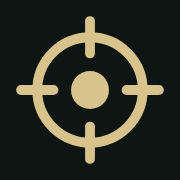
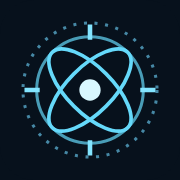
NEXIA look on today's pages: navy/cyan colours, side menu, phone bottom bar
Ports the owner-approved NEXIA presentation from ChatGPT's PR #105 (ARN-139) onto the current pages instead
of merging that older snapshot: one stylesheet (dashboard/nexia.css) and one shared menu (Workspace, Command,
Orchestrator, Forge) on all four pages. A left rail on wide screens, a top bar on tablets, a four-button bottom
bar on phones. Chat stays the main page; every control from today is unchanged (files, answer modes, smart
routing, voice, scheduled agents, tools catalog, stop switch). Home-screen name and icon are now NEXIA.
Also fixes two layout bugs: the chat page zoomed out on small phones (320px) and the Orchestrator board ran
off the right edge next to the rail.

Claude-Session: https://claude.ai/code/session_01Y4GeXfvxSLXcDYy1FoL1cY

diff --git a/dashboard/nexia.css b/dashboard/nexia.css
@@ -1,0 +1,104 @@
+/* NEXIA look (ARN-139, palette and phone bar from ChatGPT's PR #105, ported onto today's pages).
+   Presentation only: colours, a shared menu (a left rail on wide screens, a top bar on tablets, a bottom bar on
+   phones). No page behaviour changes. Loaded last on every page, so it wins over ops-theme.css and the page styles. */
+:root:root:root:root{
+  --bg:#07111c; --bg-2:#0b1929; --panel:#102033; --panel-2:#0b1828; --line:#29445b;
+  --fg:#e8f4ff; --muted:#a8bccc; --accent:#83e5ff; --accent-fg:#08202d; --accent-soft:#18394c;
+  --sand:#83e5ff; --olive:#18394c; --grid:rgba(99,194,234,.045);
+  --good:#62deb3; --good-soft:#13392e; --warn:#f3c873; --warn-soft:#382c19;
+  --bad:#ff827e; --bad-soft:#3d2028; --amber:#f3c873; --signal:#b42d37; --idle:#95a7b8;
+  --display:system-ui,-apple-system,"Segoe UI",sans-serif;
+  --body:system-ui,-apple-system,"Segoe UI",sans-serif;
+  --nx-rail:208px; --nx-phone-nav:calc(64px + env(safe-area-inset-bottom,0px));
+  color-scheme:dark;
+}
+html{background:var(--bg)}
+body{margin:0;color:var(--fg);background-color:var(--bg);
+  background-image:radial-gradient(ellipse at 48% 0%,#18374d 0%,transparent 52%),
+    linear-gradient(var(--grid) 1px,transparent 1px),linear-gradient(90deg,var(--grid) 1px,transparent 1px);
+  background-size:auto,32px 32px,32px 32px;background-attachment:fixed}
+h1,h2,h3{font-family:var(--display);font-weight:650;letter-spacing:.01em}
+.panel,.ops-beacon,.hud{border-radius:12px}
+.panel{background:linear-gradient(155deg,#12283c,var(--panel-2));box-shadow:0 12px 32px #0002}
+.panel::before,.panel::after{display:none}
+.btn,.seg button,.sel,.chip,textarea,input{border-radius:8px}
+.btn{font-family:var(--body);text-transform:none;letter-spacing:.01em}
+.btn.ghost{color:var(--accent);border-color:var(--line)}
+:focus-visible{outline:2px solid var(--accent);outline-offset:3px}
+.stopbtn{border-radius:8px;font-family:var(--body);font-weight:750;letter-spacing:.025em;
+  background:#a92d38;color:#fff;border:2px solid #ffaca8;box-shadow:0 0 0 2px #f36c7166}
+.resumebtn{border-radius:8px}
+.welcome-h,.side-brand{font-family:var(--display);font-weight:650;letter-spacing:.02em}
+.side-brand{text-transform:none}
+
+/* The shared menu. */
+.nexia-nav{box-sizing:border-box;display:flex;align-items:center;gap:16px;padding:6px 16px;background:#081522;
+  border-bottom:1px solid var(--line);position:relative;z-index:51;min-width:0}
+.nexia-brand{display:flex;align-items:center;gap:10px;color:var(--fg);text-decoration:none;min-height:44px;flex:none}
+.nexia-brand strong{display:block;color:var(--accent);font:750 18px/1 var(--body);letter-spacing:.24em}
+.nexia-brand small{display:block;font-size:11px;color:var(--muted);margin-top:4px}
+.nexia-emblem{width:32px;height:32px;flex:none;filter:drop-shadow(0 0 9px #55c9ff55)}
+.nexia-links{display:flex;gap:6px;min-width:0}
+.nexia-links a{display:flex;align-items:center;gap:8px;min-height:44px;padding:6px 10px;border:1px solid transparent;border-radius:8px;
+  text-decoration:none;color:var(--muted);font-weight:600;font-size:13px}
+.nexia-links a:hover{background:#122a3c;color:var(--fg)}
+.nexia-links a[aria-current="page"]{color:var(--accent);background:#143247;border-color:#37637e}
+.nexia-links svg{width:18px;height:18px;flex:none;stroke:currentColor;fill:none;stroke-width:1.6;stroke-linecap:round;stroke-linejoin:round}
+.nexia-links a > span{display:grid;gap:2px;line-height:1.2}
+.nexia-links a small{font-size:10px;font-weight:400;color:var(--muted)}
+
+/* Chat page: the menu takes its own space, the conversation fills the rest (question box stays at the bottom). */
+body.nexia-chat{display:flex;flex-direction:column;height:100vh;height:100dvh;overflow:hidden}
+body.nexia-chat .wrap.app{flex:1 1 0;height:auto;min-height:0}
+body.nexia-chat .convo{height:100%}
+
+/* Wide screens: the menu is a rail on the left. */
+@media (min-width:1350px){
+  body:has(> .nexia-nav){padding-left:var(--nx-rail)}
+  .nexia-nav{position:fixed;inset:0 auto 0 0;width:var(--nx-rail);flex-direction:column;align-items:stretch;gap:18px;
+    border-bottom:0;border-right:1px solid var(--line);padding:22px 12px;overflow:auto}
+  .nexia-brand{padding:0 6px}
+  .nexia-emblem{width:38px;height:38px}
+  .nexia-links{flex-direction:column}
+  .nexia-links a{font-size:14px}
+  body.nexia-chat{box-sizing:border-box}
+}
+/* Tablets: a top bar; captions hidden to save room. */
+@media (min-width:701px) and (max-width:1349px){
+  .nexia-brand small,.nexia-links a small{display:none}
+}
+/* Phones: a bottom bar with four big buttons, like an app. */
+@media (max-width:700px){
+  body:has(> .nexia-nav){padding-bottom:var(--nx-phone-nav);background-attachment:scroll}
+  body.nexia-chat{box-sizing:border-box}
+  .nexia-nav{position:fixed;inset:auto 0 0 0;min-height:var(--nx-phone-nav);z-index:65;
+    padding:4px max(6px,env(safe-area-inset-right,0px)) calc(4px + env(safe-area-inset-bottom,0px)) max(6px,env(safe-area-inset-left,0px));
+    border-bottom:0;border-top:1px solid var(--line);box-shadow:0 -8px 24px #0004}
+  .nexia-brand{display:none}
+  .nexia-links{flex:1;display:grid;grid-template-columns:repeat(4,minmax(0,1fr));gap:4px}
+  .nexia-links a{min-height:56px;flex-direction:column;justify-content:center;gap:3px;padding:4px 2px;text-align:center}
+  .nexia-links svg{width:22px;height:22px}
+  .nexia-links a > span{font-size:0;gap:0}
+  .nexia-links a small{font-size:11px;font-weight:600;color:inherit}
+  .nexia-links a[aria-current="page"]{box-shadow:inset 0 2px 0 var(--accent)}
+  /* Chat: the question box sits just above the bottom bar, which already leaves room for the home indicator. */
+  body.nexia-chat .dock{padding-bottom:8px}
+  body.nexia-chat .side{bottom:var(--nx-phone-nav)}
+  body.nexia-chat .scrim{bottom:var(--nx-phone-nav)}
+  body.nexia-chat .more{max-height:calc(100dvh - var(--nx-phone-nav) - 80px);overflow:auto}
+}
+@media (prefers-reduced-motion:reduce){.nexia-emblem *{animation:none!important;transition:none!important}}
+/* Small phones (iPhone SE and similar): the answer-mode toggle gets its own line, so the question box fits the
+   screen instead of the whole page zooming out. */
+@media (max-width:380px){
+  .boxrow{flex-wrap:wrap;margin-left:0}
+  .modes{order:-1;flex:1 0 100%;display:grid;grid-template-columns:repeat(3,minmax(0,1fr))}
+  .modes span{justify-content:center;min-height:40px;width:100%}
+}
+/* Orchestrator page: the left rail takes 208px, so its 3-column board folds to one column a little sooner
+   (the page's own rule does this below 1280px of screen; with the rail that is below 1488px). */
+@media (min-width:1350px) and (max-width:1488px){
+  .page > .grid{grid-template-columns:minmax(0,1fr)}
+  .page > .grid > .rail{grid-template-columns:repeat(auto-fit,minmax(260px,1fr))}
+  .page > .grid > .center{order:-1}
+}

diff --git a/dashboard/command.html b/dashboard/command.html
@@ -1,7 +1,7 @@
 <!doctype html>
 <meta charset="utf-8">
 <meta name="viewport" content="width=device-width, initial-scale=1">
-<title>AI Command Tree</title>
+<title>NEXIA · Orchestrator</title>
 <link rel="preconnect" href="https://fonts.googleapis.com">
 <link rel="preconnect" href="https://fonts.gstatic.com" crossorigin>
 <link rel="stylesheet" href="https://fonts.googleapis.com/css2?family=Orbitron:wght@600;800&family=Exo+2:wght@400;500;600;700&family=IBM+Plex+Mono:wght@400;500&display=swap">
@@ -180,6 +180,8 @@ button,select{font:inherit;color:inherit}
 @media (max-width:420px){.nbody{grid-template-columns:minmax(0,1fr)}.gs,.donut{grid-template-columns:90px 1fr}.ringbox{width:90px}}
 @media (prefers-reduced-motion:reduce){*{transition:none!important;animation:none!important}}
 </style>
+<link rel="stylesheet" href="nexia.css">
+<nav class="nexia-nav" aria-label="Main menu"><a class="nexia-brand" href="/workspace.html" aria-label="NEXIA home"><svg class="nexia-emblem" aria-hidden="true" viewBox="0 0 96 96" fill="none"><circle cx="48" cy="48" r="44" stroke="#4688a5" stroke-dasharray="2 5"/><circle cx="48" cy="48" r="35" stroke="#65d9fa" stroke-opacity=".7"/><ellipse cx="48" cy="48" rx="15" ry="35" transform="rotate(45 48 48)" stroke="#65d9fa"/><ellipse cx="48" cy="48" rx="15" ry="35" transform="rotate(-45 48 48)" stroke="#65d9fa"/><circle cx="48" cy="48" r="6" fill="#d9f8ff"/><path d="M48 7V15M48 81V89M7 48H15M81 48H89" stroke="#83e5ff" stroke-width="2"/></svg><span><strong>NEXIA</strong><small>Your AI command center</small></span></a><div class="nexia-links"><a href="/workspace.html"><svg viewBox="0 0 24 24" aria-hidden="true"><path d="M4 5h16v12H9l-5 4z M8 9h8 M8 13h6"/></svg><span>Workspace<small>Talk to AI</small></span></a><a href="/index.html"><svg viewBox="0 0 24 24" aria-hidden="true"><path d="M4 6h16v12H4z M7 10l3 2-3 2 M12 15h5"/></svg><span>Command<small>Assign work</small></span></a><a href="/command.html" aria-current="page"><svg viewBox="0 0 24 24" aria-hidden="true"><path d="M12 4v6 M5 19v-5h14v5 M12 10v9 M10 4h4 M3 19h4 M10 19h4 M17 19h4"/></svg><span>Orchestrator<small>Track work</small></span></a><a href="/tools.html"><svg viewBox="0 0 24 24" aria-hidden="true"><path d="M12 3l9 5v8l-9 5-9-5V8z M3 8l9 5 9-5 M12 13v8"/></svg><span>Forge<small>Connect apps</small></span></a></div></nav>
 
 <div class="page">
   <header class="top">

diff --git a/dashboard/workspace.html b/dashboard/workspace.html
@@ -1,7 +1,7 @@
 <meta charset="utf-8">
 <meta name="viewport" content="width=device-width, initial-scale=1">
-<title>Command Post Workspace</title>
-<meta name="theme-color" content="#0f1512">
+<title>NEXIA · Workspace</title>
+<meta name="theme-color" content="#07111c">
 <link rel="manifest" href="manifest.webmanifest">
 <link rel="icon" href="icon.svg" type="image/svg+xml">
 <link rel="apple-touch-icon" href="icon-180.png">
@@ -134,6 +134,9 @@ details.file pre{white-space:pre-wrap;overflow-wrap:anywhere;max-height:300px;ov
 <link rel="stylesheet" href="flow-view.css">
 <link rel="stylesheet" href="workspace-chat.css">
 <script src="ops-ui.js"></script>
+<link rel="stylesheet" href="nexia.css">
+<body class="nexia-chat">
+<nav class="nexia-nav" aria-label="Main menu"><a class="nexia-brand" href="/workspace.html" aria-label="NEXIA home"><svg class="nexia-emblem" aria-hidden="true" viewBox="0 0 96 96" fill="none"><circle cx="48" cy="48" r="44" stroke="#4688a5" stroke-dasharray="2 5"/><circle cx="48" cy="48" r="35" stroke="#65d9fa" stroke-opacity=".7"/><ellipse cx="48" cy="48" rx="15" ry="35" transform="rotate(45 48 48)" stroke="#65d9fa"/><ellipse cx="48" cy="48" rx="15" ry="35" transform="rotate(-45 48 48)" stroke="#65d9fa"/><circle cx="48" cy="48" r="6" fill="#d9f8ff"/><path d="M48 7V15M48 81V89M7 48H15M81 48H89" stroke="#83e5ff" stroke-width="2"/></svg><span><strong>NEXIA</strong><small>Your AI command center</small></span></a><div class="nexia-links"><a href="/workspace.html" aria-current="page"><svg viewBox="0 0 24 24" aria-hidden="true"><path d="M4 5h16v12H9l-5 4z M8 9h8 M8 13h6"/></svg><span>Workspace<small>Talk to AI</small></span></a><a href="/index.html"><svg viewBox="0 0 24 24" aria-hidden="true"><path d="M4 6h16v12H4z M7 10l3 2-3 2 M12 15h5"/></svg><span>Command<small>Assign work</small></span></a><a href="/command.html"><svg viewBox="0 0 24 24" aria-hidden="true"><path d="M12 4v6 M5 19v-5h14v5 M12 10v9 M10 4h4 M3 19h4 M10 19h4 M17 19h4"/></svg><span>Orchestrator<small>Track work</small></span></a><a href="/tools.html"><svg viewBox="0 0 24 24" aria-hidden="true"><path d="M12 3l9 5v8l-9 5-9-5V8z M3 8l9 5 9-5 M12 13v8"/></svg><span>Forge<small>Connect apps</small></span></a></div></nav>
 
 <div class="wrap app">
   <h1 class="sr-only">Workspace</h1>

diff --git a/dashboard/tools.html b/dashboard/tools.html
@@ -1,6 +1,6 @@
 <meta charset="utf-8">
 <meta name="viewport" content="width=device-width, initial-scale=1">
-<title>Tools and Connectors</title>
+<title>NEXIA · Forge</title>
 <link rel="preconnect" href="https://fonts.googleapis.com">
 <link rel="preconnect" href="https://fonts.gstatic.com" crossorigin>
 <link rel="stylesheet" href="https://fonts.googleapis.com/css2?family=Barlow+Condensed:wght@500;600;700&family=IBM+Plex+Sans:wght@400;500;600&family=IBM+Plex+Mono:wght@400;500&display=swap">
@@ -130,6 +130,8 @@ details.file pre{white-space:pre-wrap;overflow-wrap:anywhere;max-height:300px;ov
 </style>
 <link rel="stylesheet" href="ops-theme.css">
 <script src="ops-ui.js"></script>
+<link rel="stylesheet" href="nexia.css">
+<nav class="nexia-nav" aria-label="Main menu"><a class="nexia-brand" href="/workspace.html" aria-label="NEXIA home"><svg class="nexia-emblem" aria-hidden="true" viewBox="0 0 96 96" fill="none"><circle cx="48" cy="48" r="44" stroke="#4688a5" stroke-dasharray="2 5"/><circle cx="48" cy="48" r="35" stroke="#65d9fa" stroke-opacity=".7"/><ellipse cx="48" cy="48" rx="15" ry="35" transform="rotate(45 48 48)" stroke="#65d9fa"/><ellipse cx="48" cy="48" rx="15" ry="35" transform="rotate(-45 48 48)" stroke="#65d9fa"/><circle cx="48" cy="48" r="6" fill="#d9f8ff"/><path d="M48 7V15M48 81V89M7 48H15M81 48H89" stroke="#83e5ff" stroke-width="2"/></svg><span><strong>NEXIA</strong><small>Your AI command center</small></span></a><div class="nexia-links"><a href="/workspace.html"><svg viewBox="0 0 24 24" aria-hidden="true"><path d="M4 5h16v12H9l-5 4z M8 9h8 M8 13h6"/></svg><span>Workspace<small>Talk to AI</small></span></a><a href="/index.html"><svg viewBox="0 0 24 24" aria-hidden="true"><path d="M4 6h16v12H4z M7 10l3 2-3 2 M12 15h5"/></svg><span>Command<small>Assign work</small></span></a><a href="/command.html"><svg viewBox="0 0 24 24" aria-hidden="true"><path d="M12 4v6 M5 19v-5h14v5 M12 10v9 M10 4h4 M3 19h4 M10 19h4 M17 19h4"/></svg><span>Orchestrator<small>Track work</small></span></a><a href="/tools.html" aria-current="page"><svg viewBox="0 0 24 24" aria-hidden="true"><path d="M12 3l9 5v8l-9 5-9-5V8z M3 8l9 5 9-5 M12 13v8"/></svg><span>Forge<small>Connect apps</small></span></a></div></nav>
 
 <div class="wrap">
   <div class="bar">

diff --git a/dashboard/index.html b/dashboard/index.html
@@ -1,6 +1,6 @@
 <meta charset="utf-8">
 <meta name="viewport" content="width=device-width, initial-scale=1">
-<title>AI Command Post</title>
+<title>NEXIA · Command</title>
 <link rel="preconnect" href="https://fonts.googleapis.com">
 <link rel="preconnect" href="https://fonts.gstatic.com" crossorigin>
 <link rel="stylesheet" href="https://fonts.googleapis.com/css2?family=Barlow+Condensed:wght@500;600;700&family=IBM+Plex+Sans:wght@400;500;600&family=IBM+Plex+Mono:wght@400;500&display=swap">
@@ -147,6 +147,8 @@ button.link{background:none;border:0;padding:0;margin-left:8px;color:inherit;tex
 </style>
 <link rel="stylesheet" href="ops-theme.css">
 <script src="ops-ui.js"></script>
+<link rel="stylesheet" href="nexia.css">
+<nav class="nexia-nav" aria-label="Main menu"><a class="nexia-brand" href="/workspace.html" aria-label="NEXIA home"><svg class="nexia-emblem" aria-hidden="true" viewBox="0 0 96 96" fill="none"><circle cx="48" cy="48" r="44" stroke="#4688a5" stroke-dasharray="2 5"/><circle cx="48" cy="48" r="35" stroke="#65d9fa" stroke-opacity=".7"/><ellipse cx="48" cy="48" rx="15" ry="35" transform="rotate(45 48 48)" stroke="#65d9fa"/><ellipse cx="48" cy="48" rx="15" ry="35" transform="rotate(-45 48 48)" stroke="#65d9fa"/><circle cx="48" cy="48" r="6" fill="#d9f8ff"/><path d="M48 7V15M48 81V89M7 48H15M81 48H89" stroke="#83e5ff" stroke-width="2"/></svg><span><strong>NEXIA</strong><small>Your AI command center</small></span></a><div class="nexia-links"><a href="/workspace.html"><svg viewBox="0 0 24 24" aria-hidden="true"><path d="M4 5h16v12H9l-5 4z M8 9h8 M8 13h6"/></svg><span>Workspace<small>Talk to AI</small></span></a><a href="/index.html" aria-current="page"><svg viewBox="0 0 24 24" aria-hidden="true"><path d="M4 6h16v12H4z M7 10l3 2-3 2 M12 15h5"/></svg><span>Command<small>Assign work</small></span></a><a href="/command.html"><svg viewBox="0 0 24 24" aria-hidden="true"><path d="M12 4v6 M5 19v-5h14v5 M12 10v9 M10 4h4 M3 19h4 M10 19h4 M17 19h4"/></svg><span>Orchestrator<small>Track work</small></span></a><a href="/tools.html"><svg viewBox="0 0 24 24" aria-hidden="true"><path d="M12 3l9 5v8l-9 5-9-5V8z M3 8l9 5 9-5 M12 13v8"/></svg><span>Forge<small>Connect apps</small></span></a></div></nav>
 
 <div class="wrap">
   <div class="bar">
